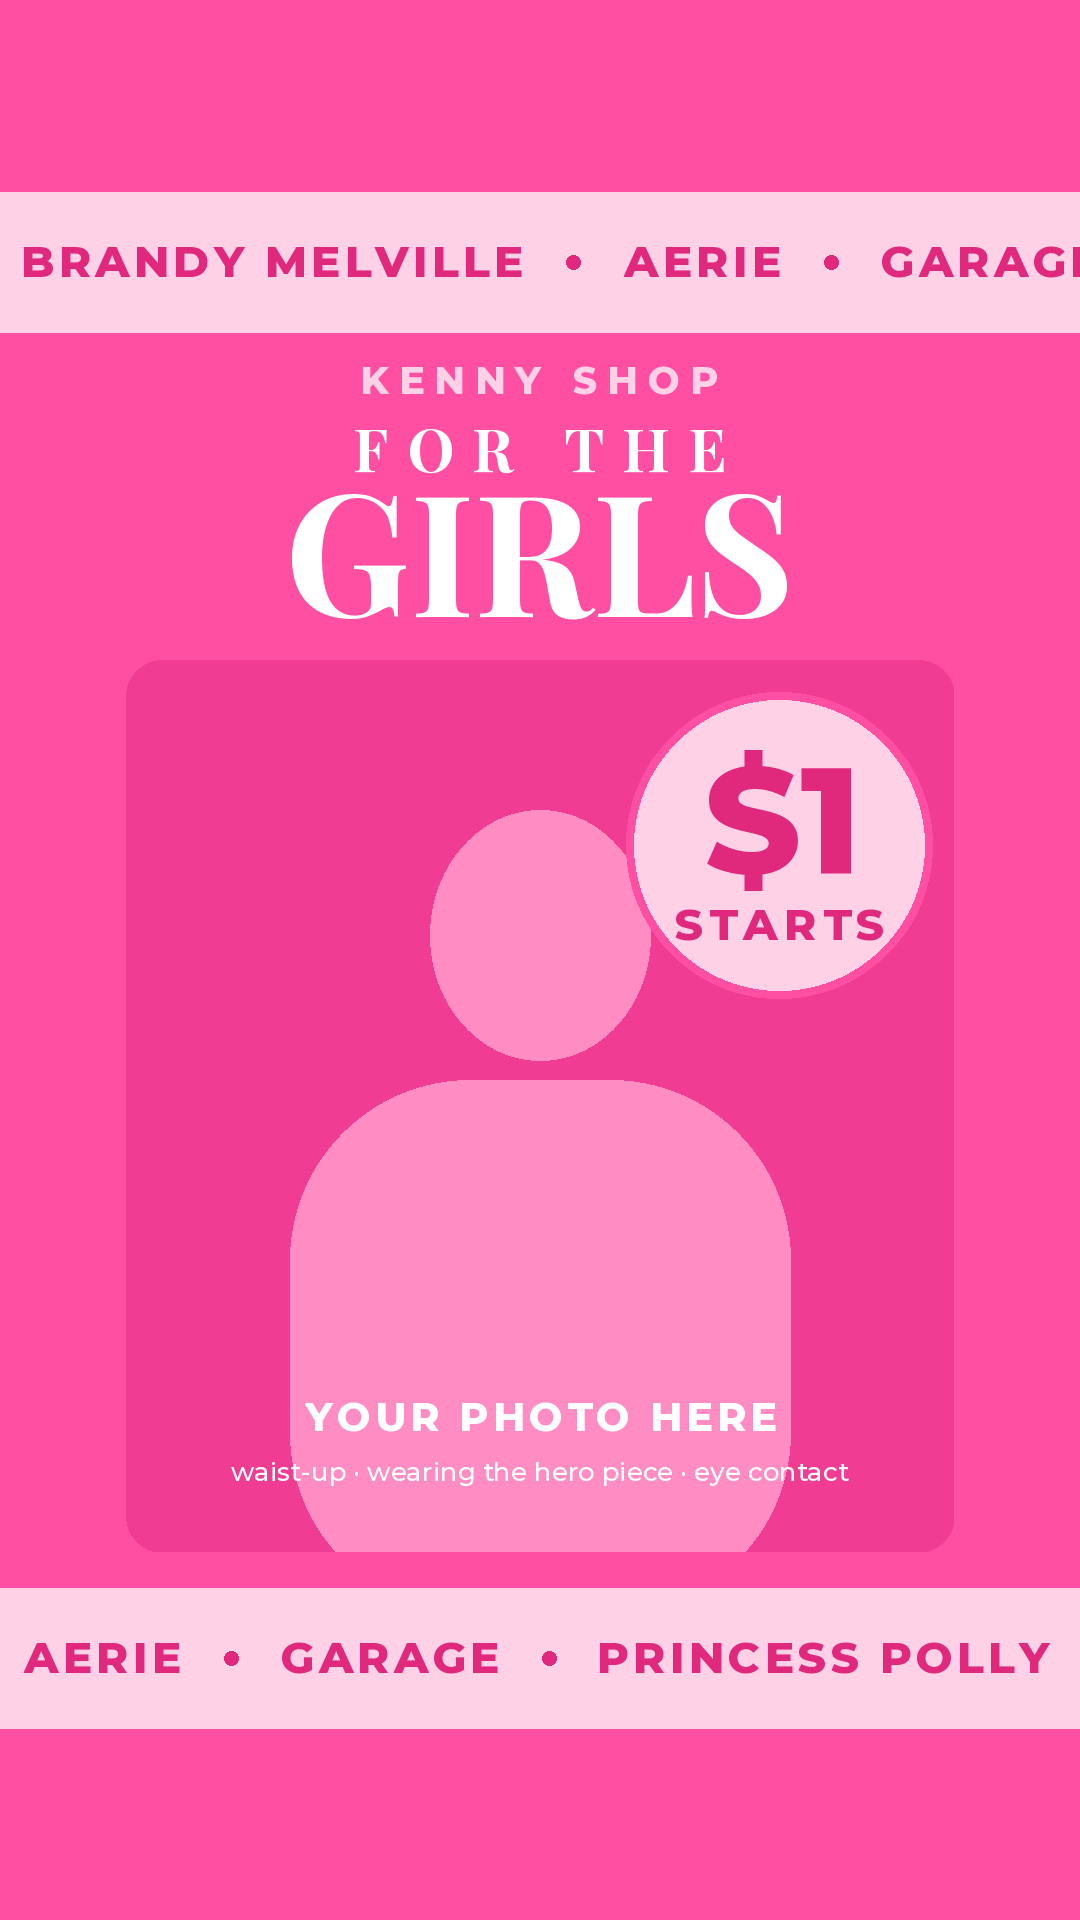
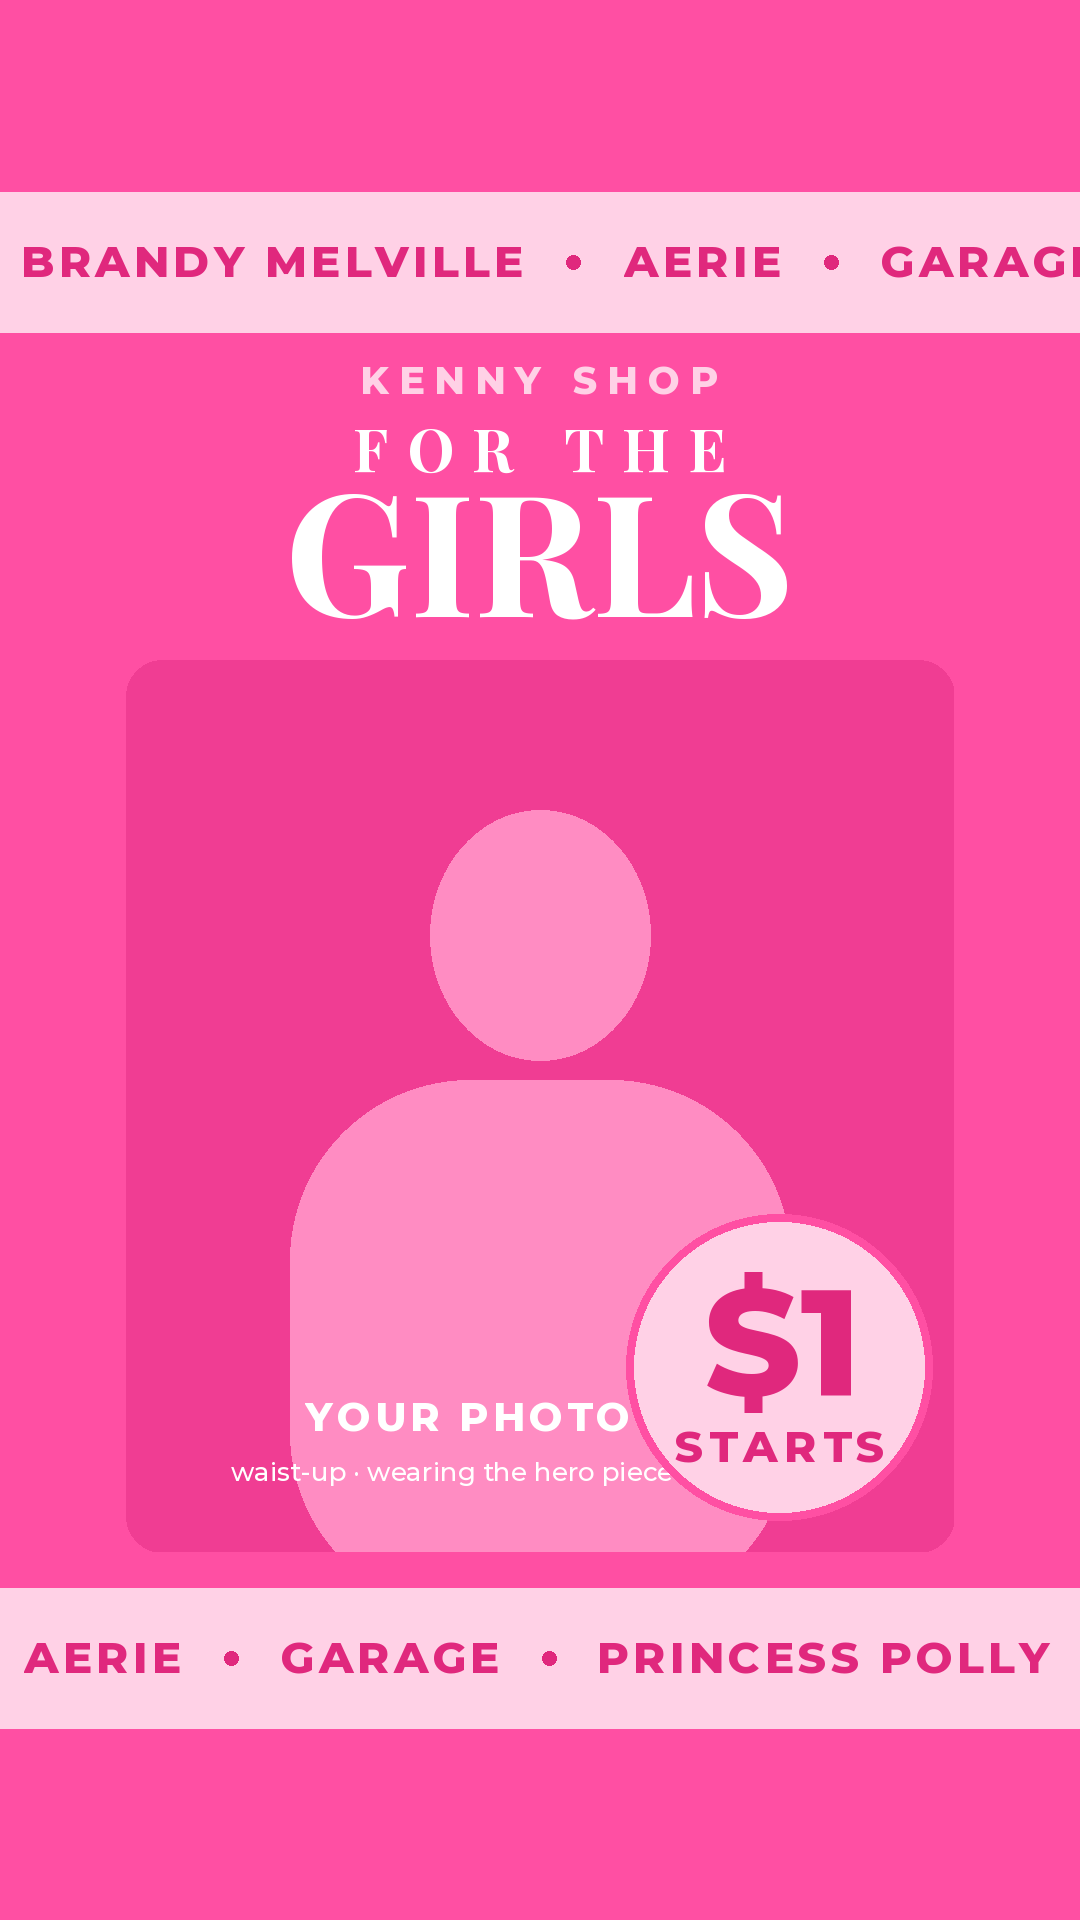
For the Girls cover: use Jade's photo, move $1 badge low
The photo stays in photos/ and the finished cover in final/, both
kept out of git. New badge_low option puts the badge in the bottom
corner when faces fill the top of the photo.

Claude-Session: https://claude.ai/code/session_018tfaUp7KnHdXiLf2Dktp8N

Changed region(s): [[0.5806, 0.625, 0.8556, 0.8125], [0.5806, 0.3438, 0.8556, 0.5312]]

diff --git a/02-branding/whatnot-covers/make_covers.py b/02-branding/whatnot-covers/make_covers.py
@@ -43,6 +43,8 @@ SHOWS = {
         photo_bg="#F03D93", figure="#FF8CC2",
         head_font=SERIF_B, head_scale=1.0, top="FOR THE", main="GIRLS",
         brands=["BRANDY MELVILLE", "AERIE", "GARAGE", "PRINCESS POLLY"], brand_font=SANS_B,
+        # two faces fill the top of this photo, so the badge goes low
+        photo=HERE / "photos" / "for-the-girls.jpg", crop=(430, 0, 2230, 1932), badge_low=True,
     ),
 }
 # Second Premium Contemporary cover: same look, new photo and brands, no fall line.
@@ -246,7 +248,8 @@ def build(name, s, out=None):
     footer_h = footer.height + 52 if footer else 0
     photo_box = (sx0 + 40, y, sx1 - 40, sy1 - BAND - 36 - footer_h)
     draw_photo(c, s, photo_box)
-    badge(c, s, photo_box[2] - 175, photo_box[1] + 185, 145)
+    by = photo_box[3] - 185 if s.get("badge_low") else photo_box[1] + 185
+    badge(c, s, photo_box[2] - 175, by, 145)
     if footer:
         fy = photo_box[3] + (sy1 - BAND - photo_box[3] - footer.height) // 2
         c.alpha_composite(footer, ((W - footer.width) // 2, fy))

diff --git a/02-branding/thumbnail-maker.md b/02-branding/thumbnail-maker.md
@@ -59,6 +59,7 @@ slightly low in the strip (`RUNNER_NUDGE` in `make_covers.py`).
 - Fonts: Playfair Display Bold headline, Montserrat ExtraBold for Kenny Shop, badge and brand text
 - Text: `FOR THE GIRLS` · `$1 STARTS` · runners: `BRANDY MELVILLE` · `AERIE` · `GARAGE` · `PRINCESS POLLY` (text until logo files are added)
 - Outfit: a cute going-out or everyday look (baby tee + low-rise jeans, a Princess Polly mini dress, an Aerie set). White, black, denim or red pop on pink; avoid an all-pink outfit.
+- The $1 badge sits at the bottom corner on this cover (`badge_low`), because the photo is two faces across the top.
 - Other pinks to pick from: `whatnot-covers/options-for-the-girls.png`
 
 ## Templates

diff --git a/LESSONS.md b/LESSONS.md
@@ -67,6 +67,8 @@ Claude reads this before every task and adds to it as it goes (see
 - Whatnot covers are built in `02-branding/whatnot-covers/make_covers.py`
   (one entry per show in `SHOWS`), with color choices in `color_options.py`.
   "For the Girls" = pink, Brandy Melville · Aerie · Garage · Princess Polly.
+- Check the finished cover for the $1 badge covering a face. If faces fill
+  the top of the photo, set `badge_low=True` on that show.
 - Brand logos come from Jade; until a file is in `logos/`, the brand shows as
   bold text. Wikimedia Commons rate-limits (429) cloud sessions, so don't
   rely on it for logos.
